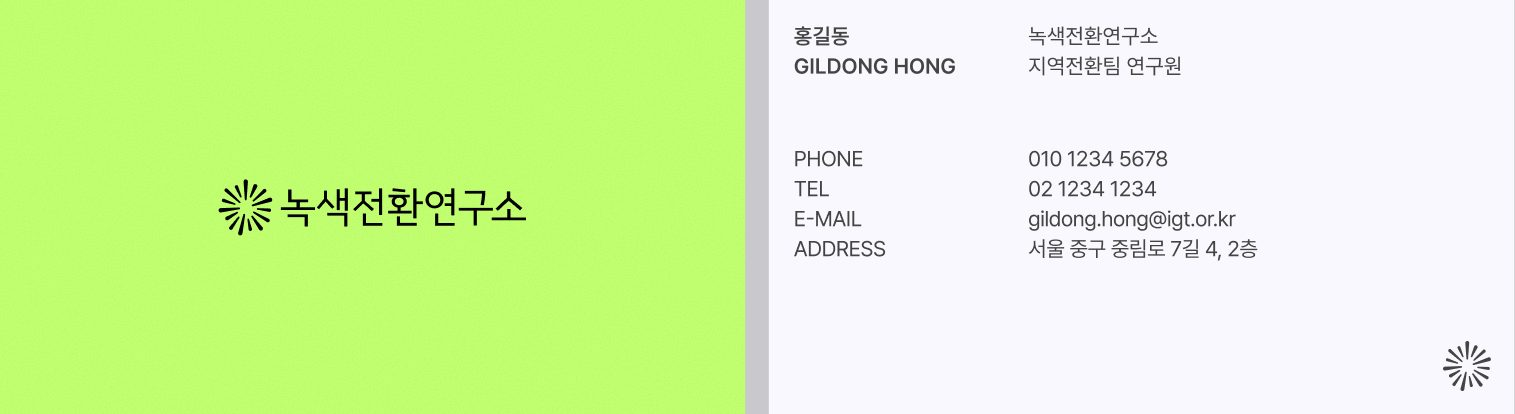
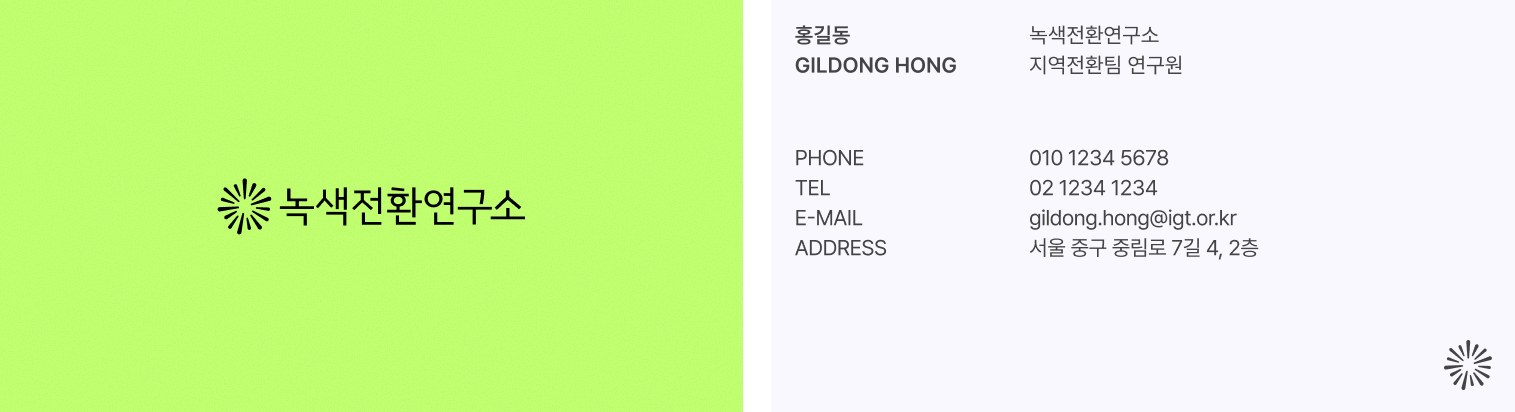
의견을 각 영역에서 바로 남기도록 Supabase 연동, 홈페이지 전체 화면 크게 보기, 명함 이미지 정리
Claude-Session: https://claude.ai/code/session_01Jat2SJ3HWACKSmNe5QvY2w

diff --git a/index.html b/index.html
@@ -111,13 +111,19 @@ section{padding-block:88px}
 @media (max-width:860px){.compare{grid-template-columns:repeat(2,1fr)}}
 
 /* homepage */
-.web-full{display:grid;grid-template-columns:1fr 1fr 300px;gap:20px;align-items:start}
-.web-full figure{margin:0;position:relative}
-.web-full img{border-radius:12px;border:1px solid var(--line);cursor:zoom-in;width:100%}
-.web-full figcaption{font-size:14px;font-weight:700;color:var(--muted);margin-bottom:8px}
-.pin{position:absolute;right:12px;width:34px;height:34px;border-radius:50%;background:var(--ink);color:var(--lime);display:grid;place-items:center;font-weight:700;font-size:15px}
-.legend{list-style:none;margin:0;padding:0;display:grid;gap:0;position:sticky;top:84px}
-.legend li{border-top:2px solid var(--ink);padding-block:12px 18px;font-size:15px;line-height:1.6}
+.web-full{display:grid;grid-template-columns:minmax(0,1fr);gap:20px}
+.browser{border:1px solid var(--line);border-radius:14px;overflow:hidden;background:var(--white);box-shadow:0 10px 40px rgba(28,37,37,.10);min-width:0}
+.chrome{display:flex;align-items:center;gap:6px;padding:10px 14px;background:var(--surface);border-bottom:1px solid var(--line)}
+.chrome i{width:10px;height:10px;border-radius:50%;background:var(--line)}
+.chrome span{margin-left:12px;font-family:var(--f-mono);font-size:12px;color:var(--muted);background:var(--white);border-radius:6px;padding:2px 12px}
+.scroller{height:min(86vh,1000px);overflow-y:auto;overscroll-behavior:contain;scroll-behavior:smooth}
+.page{position:relative}
+.page img{width:100%;display:block}
+.pin{position:absolute;right:16px;width:40px;height:40px;border-radius:50%;background:var(--ink);color:var(--lime);display:grid;place-items:center;font-weight:700;font-size:16px;box-shadow:0 0 0 4px var(--lime)}
+.legend{list-style:none;margin:0;padding:0;display:grid;grid-template-columns:repeat(5,minmax(0,1fr));gap:0 18px;order:-1}
+.legend button{all:unset;display:block;cursor:pointer;border-top:2px solid var(--ink);padding-block:12px 18px;font-size:15px;line-height:1.6;width:100%}
+.legend button:hover b{text-decoration:underline}
+.legend button:focus-visible{outline:3px solid var(--leaf);outline-offset:2px}
 .legend b{display:flex;gap:10px;align-items:center;font-size:16px;margin-bottom:4px}
 .legend b i{font-style:normal;width:26px;height:26px;border-radius:50%;background:var(--ink);color:var(--lime);display:grid;place-items:center;font-size:13px;flex:none}
 .web-more{display:grid;grid-template-columns:1.3fr 1fr;gap:20px;margin-top:48px}
@@ -127,8 +133,7 @@ section{padding-block:88px}
 .heads{display:grid;grid-template-columns:repeat(4,1fr);gap:12px;margin-top:20px}
 .heads img{border-radius:10px;border:1px solid var(--line);cursor:zoom-in}
 .heads small{display:block;font-size:13px;color:var(--muted);margin-top:4px}
-@media (max-width:960px){.web-full{grid-template-columns:1fr 1fr}.legend{grid-column:1/-1;position:static;grid-template-columns:repeat(auto-fit,minmax(220px,1fr));gap:0 20px}.web-more{grid-template-columns:1fr}.heads{grid-template-columns:repeat(2,1fr)}}
-@media (max-width:560px){.web-full{grid-template-columns:1fr}}
+@media (max-width:960px){.legend{grid-template-columns:repeat(auto-fit,minmax(200px,1fr))}.scroller{height:70vh}.web-more{grid-template-columns:1fr}.heads{grid-template-columns:repeat(2,1fr)}}
 
 /* templates */
 .tpl{margin-bottom:64px}
@@ -141,6 +146,7 @@ section{padding-block:88px}
 .g2{grid-template-columns:repeat(2,1fr)}
 .g4{grid-template-columns:repeat(4,1fr)}
 .span2{grid-column:span 2}
+.gal img.plain{border:0;border-radius:4px}
 @media (max-width:860px){.g3,.g4{grid-template-columns:repeat(2,1fr)}.span2{grid-column:span 2}}
 @media (max-width:560px){.g3,.g2,.g4{grid-template-columns:1fr}.span2{grid-column:auto}}
 
@@ -155,6 +161,57 @@ section{padding-block:88px}
 .fb-form iframe{width:100%;border:0;min-height:600px}
 .fallback{font-size:14px;color:var(--muted)}
 @media (max-width:960px){.fb-grid{grid-template-columns:1fr}.fb-aside{position:static}.fb-form{padding:18px 12px 4px}}
+
+/* feedback widgets */
+.fbw{border-top:2px solid var(--ink);padding-top:20px;display:grid;gap:16px;min-width:0}
+#web .fbw,#templates .fbw{background:var(--white);border:1px solid var(--line);border-radius:20px;padding:28px;margin-top:40px}
+.fbw-head{display:flex;flex-wrap:wrap;align-items:baseline;justify-content:space-between;gap:8px 16px}
+.fbw-head h4{margin:0;font-size:19px;font-weight:900}
+.stat{font-size:14px;color:var(--muted);font-variant-numeric:tabular-nums}
+.stat b{color:var(--ink);font-size:16px}
+.fbw form{display:grid;gap:10px}
+.stars{display:flex;gap:4px;align-items:center;flex-wrap:wrap}
+.stars button{all:unset;cursor:pointer;font-size:30px;line-height:1;color:var(--line);padding:0 2px;border-radius:6px}
+.stars button.on{color:var(--leaf)}
+.stars button:focus-visible{outline:3px solid var(--leaf)}
+.stars small{margin-left:8px;font-size:13px;color:var(--muted)}
+.fbw textarea,.fbw input[type=text]{font:inherit;font-size:15px;color:var(--ink);background:var(--white);border:1px solid var(--line);border-radius:12px;padding:10px 12px;width:100%;min-width:0}
+.fbw textarea{min-height:84px;resize:vertical}
+.fbw textarea:focus,.fbw input:focus{outline:2px solid var(--leaf);border-color:transparent}
+.row{display:flex;gap:10px;flex-wrap:wrap;align-items:center}
+.row input{flex:1 1 180px;max-width:260px}
+.row .btn{padding:10px 20px;font-size:15px}
+.msg{font-size:14px;color:var(--leaf);font-weight:700}
+.msg.err{color:#B3261E}
+.clist{list-style:none;margin:0;padding:0;display:grid;gap:10px;max-height:420px;overflow-y:auto}
+.clist li{background:var(--surface);border-radius:12px;padding:12px 14px;font-size:15px;line-height:1.6;overflow-wrap:anywhere}
+.clist .meta{display:flex;gap:8px;align-items:center;font-size:12.5px;color:var(--muted);margin-bottom:2px}
+.clist .meta b{color:var(--ink);font-size:13px}
+.clist .meta .s{color:var(--leaf);letter-spacing:1px}
+.empty{font-size:14px;color:var(--muted)}
+.more{all:unset;cursor:pointer;font-size:14px;font-weight:700;text-decoration:underline}
+/* pick */
+.pickw{margin-top:28px;background:var(--surface);border-radius:20px;padding:28px;display:grid;gap:18px}
+.pickw h4{margin:0;font-size:19px;font-weight:900}
+.picks{display:grid;grid-template-columns:repeat(4,1fr);gap:12px}
+.picks button{all:unset;cursor:pointer;background:var(--white);border:2px solid var(--line);border-radius:14px;padding:14px;display:grid;gap:10px;text-align:left}
+.picks button[aria-pressed=true]{border-color:var(--ink);background:var(--lime)}
+.picks button:focus-visible{outline:3px solid var(--leaf);outline-offset:2px}
+.picks .t{font-weight:700;font-size:15px}
+.bar{height:10px;border-radius:999px;background:var(--surface);overflow:hidden}
+.picks button[aria-pressed=true] .bar{background:rgba(255,255,255,.6)}
+.bar i{display:block;height:100%;background:var(--ink);border-radius:999px;width:0;transition:width .4s}
+.picks .n{font-size:13px;color:var(--muted);font-variant-numeric:tabular-nums}
+@media (max-width:760px){.picks{grid-template-columns:repeat(2,1fr)}}
+/* board */
+.board{display:grid;grid-template-columns:repeat(3,1fr);gap:14px}
+.board .card{background:var(--white);border-radius:16px;padding:20px;display:grid;gap:6px;text-decoration:none}
+.board .card .k{font-size:14px;font-weight:700;color:var(--muted)}
+.board .card .v{font-size:32px;font-weight:900;font-variant-numeric:tabular-nums}
+.board .card .v small{font-size:14px;font-weight:500;color:var(--muted);margin-left:6px}
+.muted{color:var(--muted)}
+@media (max-width:760px){.board{grid-template-columns:1fr 1fr}}
+@media (max-width:440px){.board{grid-template-columns:1fr}}
 
 footer{padding-block:40px;font-size:14px;color:var(--muted);border-top:1px solid var(--line)}
 
@@ -181,7 +238,7 @@ footer{padding-block:40px;font-size:14px;color:var(--muted);border-top:1px solid
       <li><a href="#web">홈페이지</a></li>
       <li><a href="#templates">템플릿</a></li>
     </ul>
-    <a class="btn" href="#feedback">의견 남기기</a>
+    <a class="btn" href="#feedback">의견 현황</a>
   </div>
 </nav>
 
@@ -189,7 +246,7 @@ footer{padding-block:40px;font-size:14px;color:var(--muted);border-top:1px solid
   <div class="wrap">
     <p class="eyebrow" style="color:var(--ink)">Brand Identity · 1차 시안 · 2026.10</p>
     <h1>새 로고,<br>어떤 시안이 좋을까요?</h1>
-    <p class="lead">새 로고 시안 4종과 홈페이지 개편안, 브랜드 적용 예시를 한 페이지에 모았습니다. 천천히 둘러보신 뒤 맨 아래에서 의견을 남겨 주세요.</p>
+    <p class="lead">새 로고 시안 4종과 홈페이지 개편안, 브랜드 적용 예시를 한 페이지에 모았습니다. 각 영역 바로 아래에서 별점과 의견을 남길 수 있습니다.</p>
     <div class="hero-syms">
       <a href="#d01"><img src="img/sym01.png" alt="시안 01 심볼"><span>시안 01 · 선의 리듬</span></a>
       <a href="#d02"><img src="img/sym02.png" alt="시안 02 심볼"><span>시안 02 · 점진적 전환</span></a>
@@ -198,8 +255,8 @@ footer{padding-block:40px;font-size:14px;color:var(--muted);border-top:1px solid
     </div>
     <ol class="steps">
       <li><b>둘러보기</b>시안별 설명과 적용 예시를 봅니다. 이미지를 누르면 크게 볼 수 있습니다.</li>
-      <li><b>별점과 의견</b>맨 아래 설문에서 시안마다 별점을 매기고 선호 시안을 고릅니다.</li>
-      <li><b>보내기</b>로그인은 필요 없고, 5분 안팎이면 충분합니다. 이름은 적지 않아도 됩니다.</li>
+      <li><b>별점과 의견</b>시안마다 아래 칸에서 별점을 매기고 의견을 적습니다. ‘한눈에 비교하기’에서 가장 좋은 시안도 골라 주세요.</li>
+      <li><b>함께 보기</b>로그인은 필요 없습니다. 남긴 의견은 바로 다른 구성원에게도 보이며, 이름은 적지 않아도 됩니다.</li>
     </ol>
   </div>
 </header>
@@ -228,7 +285,7 @@ footer{padding-block:40px;font-size:14px;color:var(--muted);border-top:1px solid
 
 <section class="band" id="drafts">
   <div class="wrap">
-    <div class="sec-head"><p class="eyebrow">Signature logo drafts</p><h2>로고 시안 4종</h2><p>각 시안은 심볼, 로고타입 구성(국문형·혼합형·영문형), 실제 적용 예시 순서로 보여 드립니다. ‘형태’와 ‘함께 볼 점’은 검토를 돕기 위한 정리입니다.</p></div>
+    <div class="sec-head"><p class="eyebrow">Signature logo drafts</p><h2>로고 시안 4종</h2><p>각 시안은 심볼, 로고타입 구성(국문형·혼합형·영문형), 실제 적용 예시 순서로 보여 드립니다. 시안마다 맨 아래에서 바로 별점과 의견을 남길 수 있고, 다른 구성원의 의견도 함께 보입니다.</p></div>
 
     <article class="draft" id="d01">
       <div class="panel"><div class="num">01</div><img src="img/sym01.png" alt="시안 01 심볼: 길이와 굵기가 다른 선들이 방사형으로 모인 형태"><h3>Symbol A · 선의 리듬</h3></div>
@@ -249,7 +306,7 @@ footer{padding-block:40px;font-size:14px;color:var(--muted);border-top:1px solid
           <figure><img src="img/card01.jpg" alt="시안 01 배경 적용 예시"><figcaption>배경·컬러 적용</figcaption></figure>
           <figure><img src="img/web01.jpg" alt="시안 01 웹 헤더 적용 예시"><figcaption>웹 헤더 적용</figcaption></figure>
         </div></div>
-        <a class="btn ghost go" href="#feedback">이 시안 평가하기 ↓</a>
+        <div class="fbw" data-section="d01" data-title="시안 01"></div>
       </div>
     </article>
 
@@ -272,7 +329,7 @@ footer{padding-block:40px;font-size:14px;color:var(--muted);border-top:1px solid
           <figure><img src="img/card02.jpg" alt="시안 02 배경 적용 예시"><figcaption>배경·컬러 적용</figcaption></figure>
           <figure><img src="img/web02.jpg" alt="시안 02 웹 헤더 적용 예시"><figcaption>웹 헤더 적용</figcaption></figure>
         </div></div>
-        <a class="btn ghost go" href="#feedback">이 시안 평가하기 ↓</a>
+        <div class="fbw" data-section="d02" data-title="시안 02"></div>
       </div>
     </article>
 
@@ -295,7 +352,7 @@ footer{padding-block:40px;font-size:14px;color:var(--muted);border-top:1px solid
           <figure><img src="img/card03.jpg" alt="시안 03 배경 적용 예시"><figcaption>배경·컬러 적용</figcaption></figure>
           <figure><img src="img/web03.jpg" alt="시안 03 웹 헤더 적용 예시"><figcaption>웹 헤더 적용</figcaption></figure>
         </div></div>
-        <a class="btn ghost go" href="#feedback">이 시안 평가하기 ↓</a>
+        <div class="fbw" data-section="d03" data-title="시안 03"></div>
       </div>
     </article>
 
@@ -318,7 +375,7 @@ footer{padding-block:40px;font-size:14px;color:var(--muted);border-top:1px solid
           <figure><img src="img/card04.jpg" alt="시안 04 배경 적용 예시"><figcaption>배경·컬러 적용</figcaption></figure>
           <figure><img src="img/web04.jpg" alt="시안 04 웹 헤더 적용 예시"><figcaption>웹 헤더 적용</figcaption></figure>
         </div></div>
-        <a class="btn ghost go" href="#feedback">이 시안 평가하기 ↓</a>
+        <div class="fbw" data-section="d04" data-title="시안 04"></div>
       </div>
     </article>
   </div>
@@ -326,28 +383,34 @@ footer{padding-block:40px;font-size:14px;color:var(--muted);border-top:1px solid
 
 <section id="compare">
   <div class="wrap">
-    <div class="sec-head"><p class="eyebrow">Compare</p><h2>한눈에 비교하기</h2><p>심볼과 국문형 로고를 나란히 놓았습니다. 누르면 해당 시안 설명으로 이동합니다.</p></div>
+    <div class="sec-head"><p class="eyebrow">Compare</p><h2>한눈에 비교하기</h2><p>심볼과 국문형 로고를 나란히 놓았습니다. 아래에서 가장 마음에 드는 시안 하나를 골라 주세요. 다시 고르면 마지막 선택만 반영됩니다.</p></div>
     <div class="compare">
       <a href="#d01"><div class="tile"><img src="img/sym01.png" alt=""></div><div class="ko"><img src="img/ko01.png" alt="시안 01 국문형"></div><span>01 · Symbol A 선의 리듬</span></a>
       <a href="#d02"><div class="tile"><img src="img/sym02.png" alt=""></div><div class="ko"><img src="img/ko02.png" alt="시안 02 국문형"></div><span>02 · Symbol B 점진적 전환</span></a>
       <a href="#d03"><div class="tile"><img src="img/sym03.png" alt=""></div><div class="ko"><img src="img/ko03.png" alt="시안 03 국문형"></div><span>03 · Symbol C 잎사귀의 흐름</span></a>
       <a href="#d04"><div class="tile"><img src="img/sym04.png" alt=""></div><div class="ko"><img src="img/ko04.png" alt="시안 04 국문형"></div><span>04 · Symbol A 고딕 워드마크</span></a>
     </div>
+    <div class="pickw" id="pick"></div>
   </div>
 </section>
 
 <section class="band" id="web">
   <div class="wrap">
-    <div class="sec-head"><p class="eyebrow">Touch point · Web</p><h2>홈페이지 개편안</h2><p>메인 화면을 맨 위부터 맨 아래까지 두 단으로 나눠 보여 드립니다. 이미지를 누르면 크게 볼 수 있습니다.</p></div>
+    <div class="sec-head"><p class="eyebrow">Touch point · Web</p><h2>홈페이지 개편안</h2><p>메인 화면을 실제 브라우저처럼 위에서 아래로 이어서 보여 드립니다. 화면 안에서 스크롤하거나, 위쪽 번호를 누르면 해당 구역으로 이동합니다.</p></div>
     <div class="web-full">
-      <figure><figcaption>상단</figcaption><img src="img/webfull_a.jpg" alt="홈페이지 메인 화면 상단: 메뉴, 첫 화면, 최신소식"><span class="pin" style="top:22%">1</span><span class="pin" style="top:72%">2</span></figure>
-      <figure><figcaption>하단 (스크롤 이어서)</figcaption><img src="img/webfull_b.jpg" alt="홈페이지 메인 화면 하단: 후원 배너, 지금 읽어야 할 연구, 푸터"><span class="pin" style="top:9%">3</span><span class="pin" style="top:28%">4</span><span class="pin" style="top:74%">5</span></figure>
+      <div class="browser">
+        <div class="scroller" id="webScroller" tabindex="0" aria-label="홈페이지 메인 화면 전체 (스크롤)">
+          <div class="page"><img src="img/webfull.jpg" alt="홈페이지 메인 화면 전체: 메뉴와 첫 화면, 최신소식, 후원 배너, 지금 읽어야 할 연구, 푸터">
+            <span class="pin" data-pin="1" style="top:9.4%">1</span><span class="pin" data-pin="2" style="top:31%">2</span><span class="pin" data-pin="3" style="top:51%">3</span><span class="pin" data-pin="4" style="top:60.6%">4</span><span class="pin" data-pin="5" style="top:84.6%">5</span>
+          </div>
+        </div>
+      </div>
       <ol class="legend">
-        <li><b><i>1</i>상단 메뉴·첫 화면</b>연구·소식·참여·후원·소개 메뉴, ‘문의·강의 요청’과 ‘기후시민플랫폼’ 버튼, 검색을 둡니다. 큰 사진 위 라임색 카드로 주력 연구를 소개합니다.</li>
-        <li><b><i>2</i>최신소식</b>분류 태그와 날짜를 붙인 목록으로 최근 소식을 보여 줍니다.</li>
-        <li><b><i>3</i>후원 배너</b>‘지속가능한 녹색 전환을 함께 만들어주세요’ 문구와 ‘후원하기’ 버튼을 둡니다.</li>
-        <li><b><i>4</i>지금 읽어야 할 연구</b>사진 카드 세 장으로 추천 연구를 소개합니다.</li>
-        <li><b><i>5</i>푸터</b>메뉴 바로가기, 기관 정보, 로고를 정리합니다.</li>
+        <li><button type="button" data-go="1"><b><i>1</i>상단 메뉴·첫 화면</b>연구·소식·참여·후원·소개 메뉴, ‘문의·강의 요청’과 ‘기후시민플랫폼’ 버튼, 검색을 둡니다. 큰 사진 위 라임색 카드로 주력 연구를 소개합니다.</button></li>
+        <li><button type="button" data-go="2"><b><i>2</i>최신소식</b>분류 태그와 날짜를 붙인 목록으로 최근 소식을 보여 줍니다.</button></li>
+        <li><button type="button" data-go="3"><b><i>3</i>후원 배너</b>‘지속가능한 녹색 전환을 함께 만들어주세요’ 문구와 ‘후원하기’ 버튼을 둡니다.</button></li>
+        <li><button type="button" data-go="4"><b><i>4</i>지금 읽어야 할 연구</b>사진 카드 세 장으로 추천 연구를 소개합니다.</button></li>
+        <li><button type="button" data-go="5"><b><i>5</i>푸터</b>메뉴 바로가기, 기관 정보, 로고를 정리합니다.</button></li>
       </ol>
     </div>
     <div class="web-more">
@@ -361,6 +424,7 @@ footer{padding-block:40px;font-size:14px;color:var(--muted);border-top:1px solid
       <div><img src="img/web03.jpg" alt="시안 03 헤더"><small>시안 03</small></div>
       <div><img src="img/web04.jpg" alt="시안 04 헤더"><small>시안 04</small></div>
     </div>
+    <div class="fbw" data-section="web" data-title="홈페이지 개편안"></div>
   </div>
 </section>
 
@@ -388,8 +452,8 @@ footer{padding-block:40px;font-size:14px;color:var(--muted);border-top:1px solid
         <figure><figcaption>이슈브리프 표지</figcaption><img src="img/brief.jpg" alt="이슈브리프 표지 3종"></figure>
         <figure><figcaption>포스터</figcaption><img src="img/poster.jpg" alt="포스터 2종"></figure>
         <figure class="span2"><figcaption>보고서 표지</figcaption><img src="img/report.jpg" alt="보고서 표지 5종"></figure>
-        <figure><figcaption>명함 (앞·뒤)</figcaption><img src="img/bizcard.jpg" alt="명함 첫 번째 안"></figure>
-        <figure><figcaption>명함 (심볼 강조형)</figcaption><img src="img/bizcard2.jpg" alt="명함 두 번째 안"></figure>
+        <figure><figcaption>명함 (앞·뒤)</figcaption><img class="plain" src="img/bizcard.jpg" alt="명함 첫 번째 안"></figure>
+        <figure><figcaption>명함 (심볼 강조형)</figcaption><img class="plain" src="img/bizcard2.jpg" alt="명함 두 번째 안"></figure>
       </div>
     </div>
 
@@ -407,44 +471,28 @@ footer{padding-block:40px;font-size:14px;color:var(--muted);border-top:1px solid
         <figure><figcaption>히스토그램</figcaption><img src="img/info_hist.jpg" alt="인포그래픽: 히스토그램"></figure>
       </div>
     </div>
+    <div class="fbw" data-section="templates" data-title="템플릿"></div>
   </div>
 </section>
 
 <section class="feedback" id="feedback">
   <div class="wrap">
-    <div class="sec-head"><p class="eyebrow">Your opinion</p><h2>의견 남기기</h2><p>시안마다 별점을 매기고, 가장 마음에 드는 시안을 골라 주세요. 나머지 의견 칸은 비워 두셔도 됩니다.</p></div>
-    <div class="fb-grid">
-      <aside class="fb-aside" aria-label="시안 다시 보기">
-        <p class="label" style="margin:0">시안 다시 보기</p>
-        <div class="mini">
-          <a href="#d01"><img src="img/sym01.png" alt="">01</a>
-          <a href="#d02"><img src="img/sym02.png" alt="">02</a>
-          <a href="#d03"><img src="img/sym03.png" alt="">03</a>
-          <a href="#d04"><img src="img/sym04.png" alt="">04</a>
-        </div>
-        <p class="fallback">설문 칸이 보이지 않으면 <a href="https://tally.so/r/Me9pyY" target="_blank" rel="noopener">새 창에서 설문 열기</a>를 눌러 주세요.</p>
-      </aside>
-      <div class="fb-form">
-        <iframe data-tally-src="https://tally.so/embed/Me9pyY?alignLeft=1&amp;hideTitle=1&amp;transparentBackground=1&amp;dynamicHeight=1" width="100%" height="1800" title="녹색전환연구소 로고 시안 의견 설문"></iframe>
-      </div>
-    </div>
+    <div class="sec-head"><p class="eyebrow">Live results</p><h2>지금까지의 의견 현황</h2><p>구성원들이 남긴 별점과 선호 시안이 실시간으로 모입니다. 같은 사람이 다시 매기면 마지막 점수만 집계합니다.</p></div>
+    <div class="board" id="board"><p class="muted">불러오는 중입니다.</p></div>
   </div>
 </section>
 </main>
 
 <footer>
-  <div class="wrap">원본: PUSH THE LEVER, 「녹색전환연구소 Brand Design Draft」(2026.10.08). 내부 의견수렴용 페이지이며 외부 공유를 삼가 주세요.</div>
+  <div class="wrap">원본: PUSH THE LEVER, 「녹색전환연구소 Brand Design Draft」(2026.10.08). 내부 의견수렴용 페이지이며 외부 공유를 삼가 주세요. 남긴 의견은 이 페이지를 여는 모든 사람에게 보입니다.</div>
 </footer>
 
-<a class="btn fab" href="#feedback" id="fab">의견 남기기</a>
+
 
 <script>
-// Tally embed loader
-(function(){var d=document,w="https://tally.so/widgets/embed.js",v=function(){if(typeof Tally!=="undefined"){Tally.loadEmbeds()}else{d.querySelectorAll("iframe[data-tally-src]:not([src])").forEach(function(e){e.src=e.dataset.tallySrc})}};if(typeof Tally!=="undefined"){v()}else if(!d.querySelector('script[src="'+w+'"]')){var s=d.createElement("script");s.src=w;s.onload=v;s.onerror=v;d.body.appendChild(s)}})();
-
 // Lightbox for zoomable images
 (function(){
-  var sel='.apps img,.web-full img,.web-more img,.heads img,.gal img';
+  var sel='.apps img,.web-more img,.heads img,.gal img';
   function open(src,alt){
     var lb=document.createElement('div');lb.className='lb';lb.setAttribute('role','dialog');lb.setAttribute('aria-label',alt||'이미지 크게 보기');
     var im=document.createElement('img');im.src=src;im.alt=alt||'';
@@ -461,11 +509,103 @@ footer{padding-block:40px;font-size:14px;color:var(--muted);border-top:1px solid
   });
 })();
 
-// Hide floating button when the form is on screen
+
+// ---------- Supabase feedback ----------
 (function(){
-  var fab=document.getElementById('fab'),fb=document.getElementById('feedback');
-  if(!('IntersectionObserver' in window))return;
-  new IntersectionObserver(function(es){fab.hidden=es[0].isIntersecting}).observe(fb);
+  var SB_URL='https://xjybbmonypjzmvatgfjg.supabase.co';
+  var SB_KEY='sb_publishable_sUUX-6sGbqc1M4-yoTCGrw_CngcPN-J';
+  var H={'apikey':SB_KEY,'Content-Type':'application/json'};
+  var TITLES={d01:'시안 01',d02:'시안 02',d03:'시안 03',d04:'시안 04',web:'홈페이지 개편안',templates:'템플릿'};
+  function store(k,v){try{if(v===undefined)return localStorage.getItem(k);localStorage.setItem(k,v)}catch(e){return null}}
+  var cid=store('igt_cid');
+  if(!cid){cid=(crypto.randomUUID?crypto.randomUUID():String(Date.now())+Math.random().toString(36).slice(2));store('igt_cid',cid)}
+  var data={rows:[],summary:[]};
+  function api(path,opt){return fetch(SB_URL+'/rest/v1/'+path,Object.assign({headers:H},opt||{})).then(function(r){if(!r.ok)throw new Error(r.status);return r.status===201||r.status===204?null:r.json()})}
+  function load(){
+    return Promise.all([
+      api('feedback?select=id,created_at,section,rating,choice,comment,author,client_id&order=created_at.desc&limit=1000'),
+      api('feedback_summary?select=*')
+    ]).then(function(r){data.rows=r[0]||[];data.summary=r[1]||[];renderAll()}).catch(function(){
+      document.querySelectorAll('.stat').forEach(function(e){e.textContent='의견을 불러오지 못했습니다. 잠시 뒤 새로고침해 주세요.'});
+    });
+  }
+  function el(tag,cls,txt){var e=document.createElement(tag);if(cls)e.className=cls;if(txt!=null)e.textContent=txt;return e}
+  function ago(t){var d=(Date.now()-new Date(t))/1000;if(d<60)return '방금';if(d<3600)return Math.floor(d/60)+'분 전';if(d<86400)return Math.floor(d/3600)+'시간 전';return new Date(t).toLocaleDateString('ko-KR',{month:'long',day:'numeric'})}
+  function stars(n){return '★★★★★'.slice(0,n)+'☆☆☆☆☆'.slice(0,5-n)}
+  function sum(sec){for(var i=0;i<data.summary.length;i++){var r=data.summary[i];if(r.section===sec&&!r.choice)return r}return null}
+  function myRating(sec){for(var i=0;i<data.rows.length;i++){var r=data.rows[i];if(r.section===sec&&r.client_id===cid&&r.rating)return r.rating}return 0}
+
+  // build widgets
+  document.querySelectorAll('.fbw').forEach(function(w){
+    var sec=w.dataset.section, title=w.dataset.title;
+    var head=el('div','fbw-head'); head.appendChild(el('h4',null,title+'에 대한 의견')); var st=el('span','stat','불러오는 중…'); head.appendChild(st); w.appendChild(head);
+    var f=el('form'); f.noValidate=true;
+    var sr=el('div','stars'); sr.setAttribute('role','radiogroup'); sr.setAttribute('aria-label',title+' 별점');
+    var val=0, btns=[];
+    for(var i=1;i<=5;i++){(function(n){var b=el('button',null,'★');b.type='button';b.setAttribute('role','radio');b.setAttribute('aria-label',n+'점');b.addEventListener('click',function(){val=(val===n?0:n);paint()});btns.push(b);sr.appendChild(b)})(i)}
+    var hint=el('small',null,'별점을 눌러 주세요'); sr.appendChild(hint);
+    function paint(){btns.forEach(function(b,i){b.classList.toggle('on',i<val);b.setAttribute('aria-checked',i+1===val)});hint.textContent=val?val+'점':'별점을 눌러 주세요'}
+    var ta=el('textarea'); ta.id='c_'+sec; ta.maxLength=2000; ta.placeholder='좋은 점, 아쉬운 점을 자유롭게 적어 주세요 (선택)'; ta.setAttribute('aria-label',title+' 의견');
+    var row=el('div','row'); var nm=el('input'); nm.type='text'; nm.id='n_'+sec; nm.maxLength=40; nm.placeholder='이름 (선택, 비우면 익명)'; nm.setAttribute('aria-label','이름'); nm.value=store('igt_name')||'';
+    var sb=el('button','btn','남기기'); sb.type='submit'; var msg=el('span','msg'); msg.setAttribute('role','status');
+    row.appendChild(nm); row.appendChild(sb); row.appendChild(msg);
+    f.appendChild(sr); f.appendChild(ta); f.appendChild(row); w.appendChild(f);
+    var list=el('ul','clist'); w.appendChild(list);
+    f.addEventListener('submit',function(e){
+      e.preventDefault(); msg.className='msg'; var c=ta.value.trim(), a=nm.value.trim();
+      if(!val&&!c){msg.className='msg err';msg.textContent='별점이나 의견 중 하나는 남겨 주세요.';return}
+      sb.disabled=true; msg.textContent='저장 중…'; if(a)store('igt_name',a);
+      api('feedback',{method:'POST',headers:Object.assign({'Prefer':'return=minimal'},H),body:JSON.stringify({section:sec,rating:val||null,comment:c||null,author:a||null,client_id:cid})})
+        .then(function(){ta.value='';msg.textContent='고맙습니다. 의견이 등록되었습니다.';return load()})
+        .catch(function(){msg.className='msg err';msg.textContent='저장하지 못했습니다. 잠시 뒤 다시 눌러 주세요.'})
+        .then(function(){sb.disabled=false});
+    });
+    w._render=function(){
+      var s=sum(sec); st.innerHTML='';
+      if(s){st.appendChild(document.createTextNode('평균 '));st.appendChild(el('b',null,'★ '+Number(s.avg_rating).toFixed(1)));st.appendChild(document.createTextNode(' · '+s.n+'명 참여'))}
+      else st.textContent='아직 별점이 없습니다';
+      if(!val){var m=myRating(sec);if(m){val=m;paint();hint.textContent='내 별점 '+m+'점 (다시 누르면 바뀝니다)'}}
+      var cs=data.rows.filter(function(r){return r.section===sec&&r.comment});
+      list.innerHTML='';
+      if(!cs.length){list.appendChild(el('li','empty','아직 의견이 없습니다. 첫 의견을 남겨 주세요.'));return}
+      cs.forEach(function(r){var li=el('li');var m=el('div','meta');m.appendChild(el('b',null,r.author||'익명'));if(r.rating)m.appendChild(el('span','s',stars(r.rating)));m.appendChild(el('span',null,ago(r.created_at)));li.appendChild(m);li.appendChild(el('div',null,r.comment));list.appendChild(li)});
+    };
+  });
+
+  // pick widget
+  var pw=document.getElementById('pick'); var pickBtns={};
+  if(pw){
+    pw.appendChild(el('h4',null,'가장 마음에 드는 시안을 하나 골라 주세요'));
+    var grid=el('div','picks'); var NAMES={'01':'시안 01 · 선의 리듬','02':'시안 02 · 점진적 전환','03':'시안 03 · 잎사귀의 흐름','04':'시안 04 · 고딕 워드마크'};
+    Object.keys(NAMES).forEach(function(k){var b=el('button');b.type='button';b.setAttribute('aria-pressed','false');b.appendChild(el('span','t',NAMES[k]));var bar=el('span','bar');bar.appendChild(el('i'));b.appendChild(bar);b.appendChild(el('span','n','0표'));
+      b.addEventListener('click',function(){Object.keys(pickBtns).forEach(function(x){pickBtns[x].setAttribute('aria-pressed',x===k)});pm.className='msg';pm.textContent='저장 중…';
+        api('feedback',{method:'POST',headers:Object.assign({'Prefer':'return=minimal'},H),body:JSON.stringify({section:'pick',choice:k,client_id:cid})}).then(function(){pm.textContent='선택이 반영되었습니다.';return load()}).catch(function(){pm.className='msg err';pm.textContent='저장하지 못했습니다. 다시 눌러 주세요.'})});
+      pickBtns[k]=b;grid.appendChild(b)});
+    pw.appendChild(grid); var pm=el('span','msg'); pm.setAttribute('role','status'); pw.appendChild(pm);
+  }
+  function renderPick(){
+    if(!pw)return; var tot=0,cnt={};data.summary.forEach(function(r){if(r.section==='pick'&&r.choice){cnt[r.choice]=r.n;tot+=r.n}});
+    var mine=null;for(var i=0;i<data.rows.length;i++){var r=data.rows[i];if(r.section==='pick'&&r.client_id===cid){mine=r.choice;break}}
+    Object.keys(pickBtns).forEach(function(k){var b=pickBtns[k],n=cnt[k]||0;b.querySelector('.bar i').style.width=(tot?Math.round(n/tot*100):0)+'%';b.querySelector('.n').textContent=n+'표'+(tot?' ('+Math.round(n/tot*100)+'%)':'');if(mine)b.setAttribute('aria-pressed',k===mine)});
+  }
+  function renderBoard(){
+    var bd=document.getElementById('board'); if(!bd)return; bd.innerHTML='';
+    var tot=0,best=null,bestN=-1;data.summary.forEach(function(r){if(r.section==='pick'&&r.choice){tot+=r.n;if(r.n>bestN){bestN=r.n;best=r.choice}}});
+    var people={};data.rows.forEach(function(r){people[r.client_id]=1});
+    function card(k,v,small,href){var a=el(href?'a':'div','card');if(href)a.href=href;a.appendChild(el('span','k',k));var vv=el('span','v',v);if(small)vv.appendChild(el('small',null,small));a.appendChild(vv);bd.appendChild(a)}
+    card('참여한 사람',String(Object.keys(people).length),'명');
+    card('선호 1위',best?('시안 '+best):'-',best?(bestN+'표 / '+tot+'표'):'아직 없음','#compare');
+    card('남긴 의견',String(data.rows.filter(function(r){return r.comment}).length),'건');
+    ['d01','d02','d03','d04','web','templates'].forEach(function(sec){var s=sum(sec);card(TITLES[sec]+' 평균 별점',s?('★ '+Number(s.avg_rating).toFixed(1)):'-',s?(s.n+'명'):'아직 없음','#'+(sec==='web'?'web':sec==='templates'?'templates':sec))});
+  }
+  function renderAll(){document.querySelectorAll('.fbw').forEach(function(w){w._render&&w._render()});renderPick();renderBoard()}
+  load(); setInterval(function(){if(!document.hidden)load()},30000);
+})();
+
+// homepage scroller jump
+(function(){
+  var sc=document.getElementById('webScroller'); if(!sc)return;
+  document.querySelectorAll('[data-go]').forEach(function(b){b.addEventListener('click',function(){var p=sc.querySelector('[data-pin="'+b.dataset.go+'"]');sc.scrollTop=Math.max(0,p.offsetTop-80)})});
 })();
 </script>
 </body>
